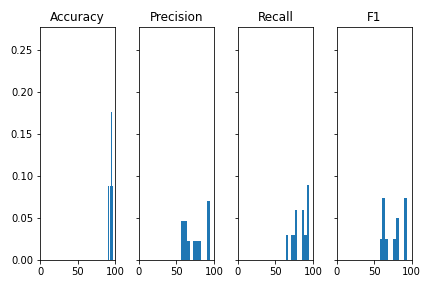
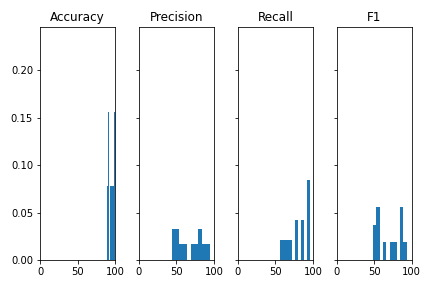
small changes

diff --git a/trainer/trainer_dt.py b/trainer/trainer_dt.py
@@ -40,7 +40,7 @@ result_dict["f1"] = []
 counter = 1
 
 for player in steamer.index:
-    if steamer[player] >= 50:
+    if steamer[player] >= 40:
         new_X = []
         max_tick = 0
         min_tick = np.inf
@@ -59,7 +59,7 @@ for player in steamer.index:
             hero_name = inst[0][1]
             if atomic_inst.size < 1000 or atomic_inst.size > 80000:
                 continue
-            if steamer[str(steam_id) + hero_name] >= 50:
+            if steamer[str(steam_id) + hero_name] >= 15:
                 if (str(steam_id) + hero_name == player):
                     y.append(1)
                 else:

diff --git a/trainer/trainer_lr.py b/trainer/trainer_lr.py
@@ -35,7 +35,7 @@ result_dict["f1"] = []
 counter = 1
 
 for player in steamer.index:
-    if steamer[player] >= 40:
+    if steamer[player] >= 50:
         new_X = []
         max_tick = 0
         min_tick = np.inf
@@ -52,7 +52,7 @@ for player in steamer.index:
             
             steam_id = inst[0][0]
             hero_name = inst[0][1]
-            if steamer[str(steam_id) + hero_name] >= 15:
+            if steamer[str(steam_id) + hero_name] >= 50:
                 if (str(steam_id) + hero_name == player):
                     y.append(1)
                 else:

diff --git a/trainer/trainer_rf.py b/trainer/trainer_rf.py
@@ -39,7 +39,7 @@ result_dict["f1"] = []
 counter = 1
 
 for player in steamer.index:
-    if steamer[player] >= 50:
+    if steamer[player] >= 40:
         new_X = []
         max_tick = 0
         min_tick = np.inf
@@ -56,7 +56,7 @@ for player in steamer.index:
             
             steam_id = inst[0][0]
             hero_name = inst[0][1]
-            if steamer[str(steam_id) + hero_name] >= 10:
+            if steamer[str(steam_id) + hero_name] >= 15:
                 if (str(steam_id) + hero_name == player):
                     y.append(1)
                 else:
